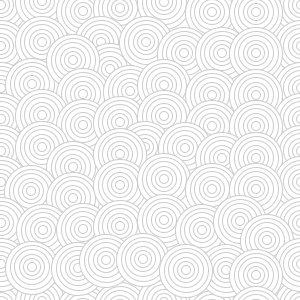
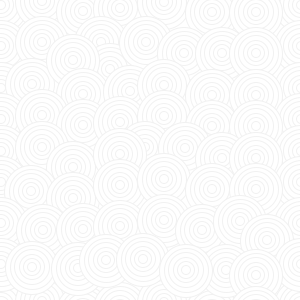
set pattern as background

Changed region(s): [[0.0, 0.0, 1.0, 1.0]]

diff --git a/css/main.css b/css/main.css
@@ -130,7 +130,7 @@ header .subtitle {
 .overlay {
 	width: 100%;
 	height: 100vh;
-	background-color: rgba( 255, 255, 255, 0.9 );
+	background-image: url(../images/swirl_pattern.png);
 	position: absolute;
 	top: 0px;
 	left: 0px;
